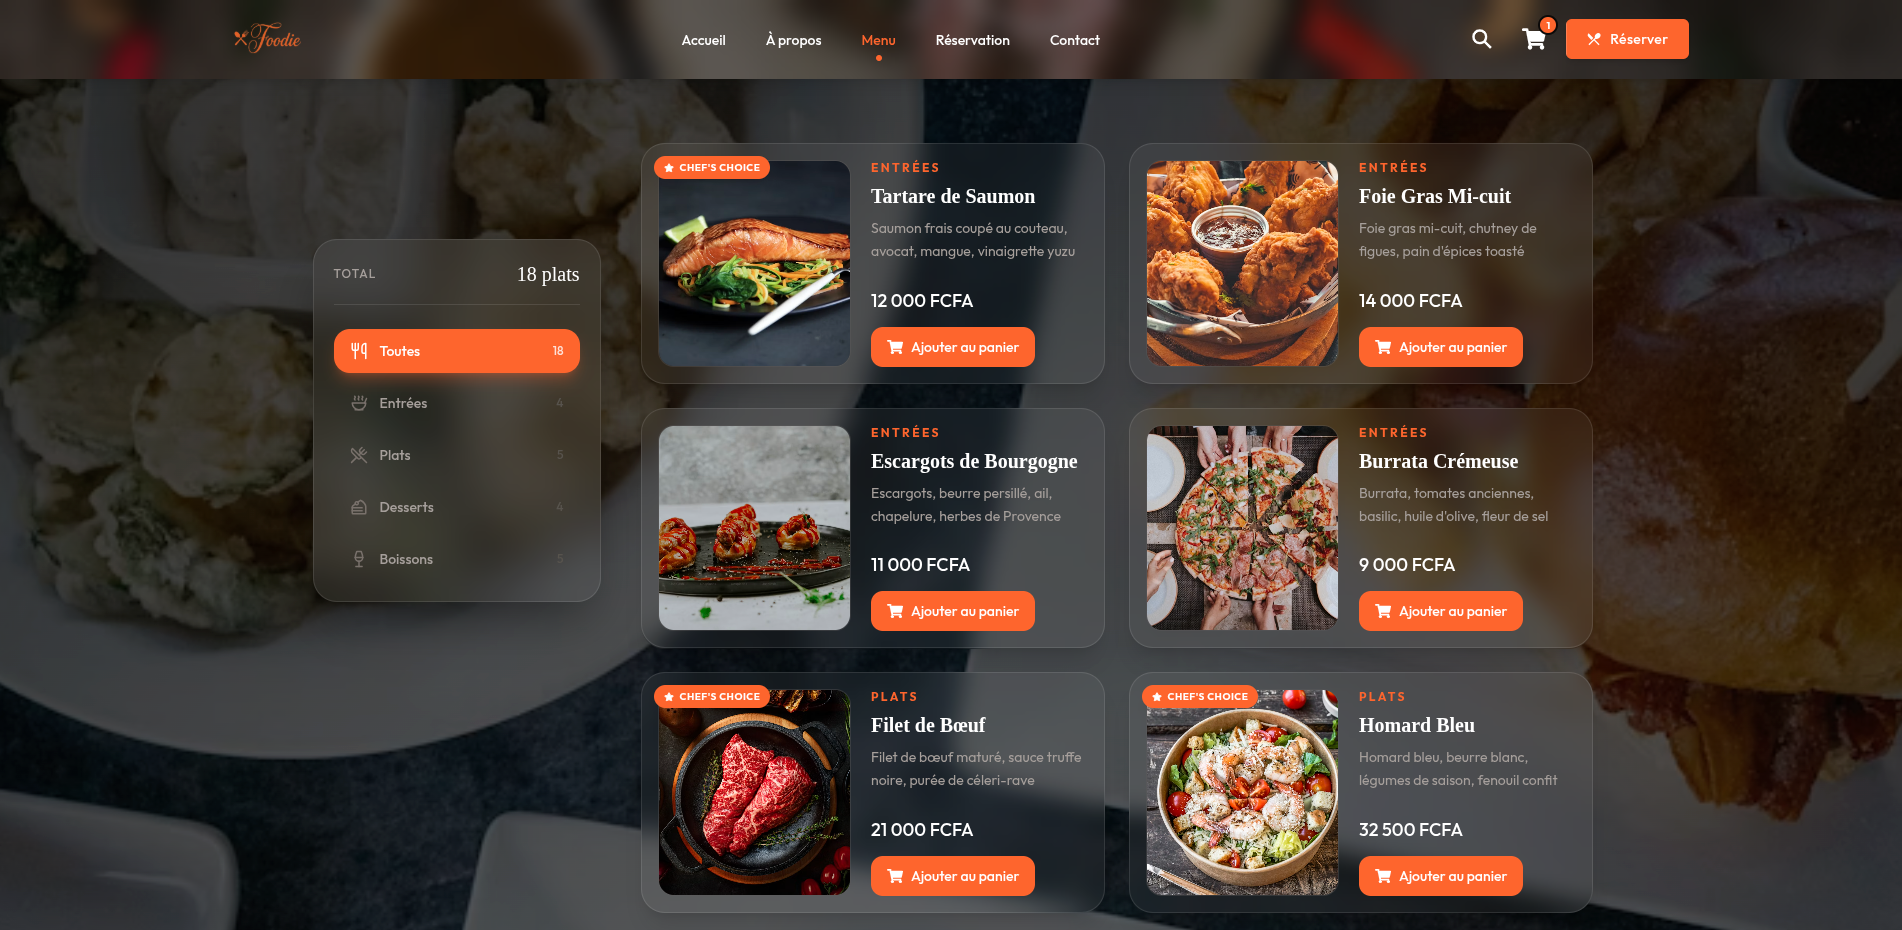
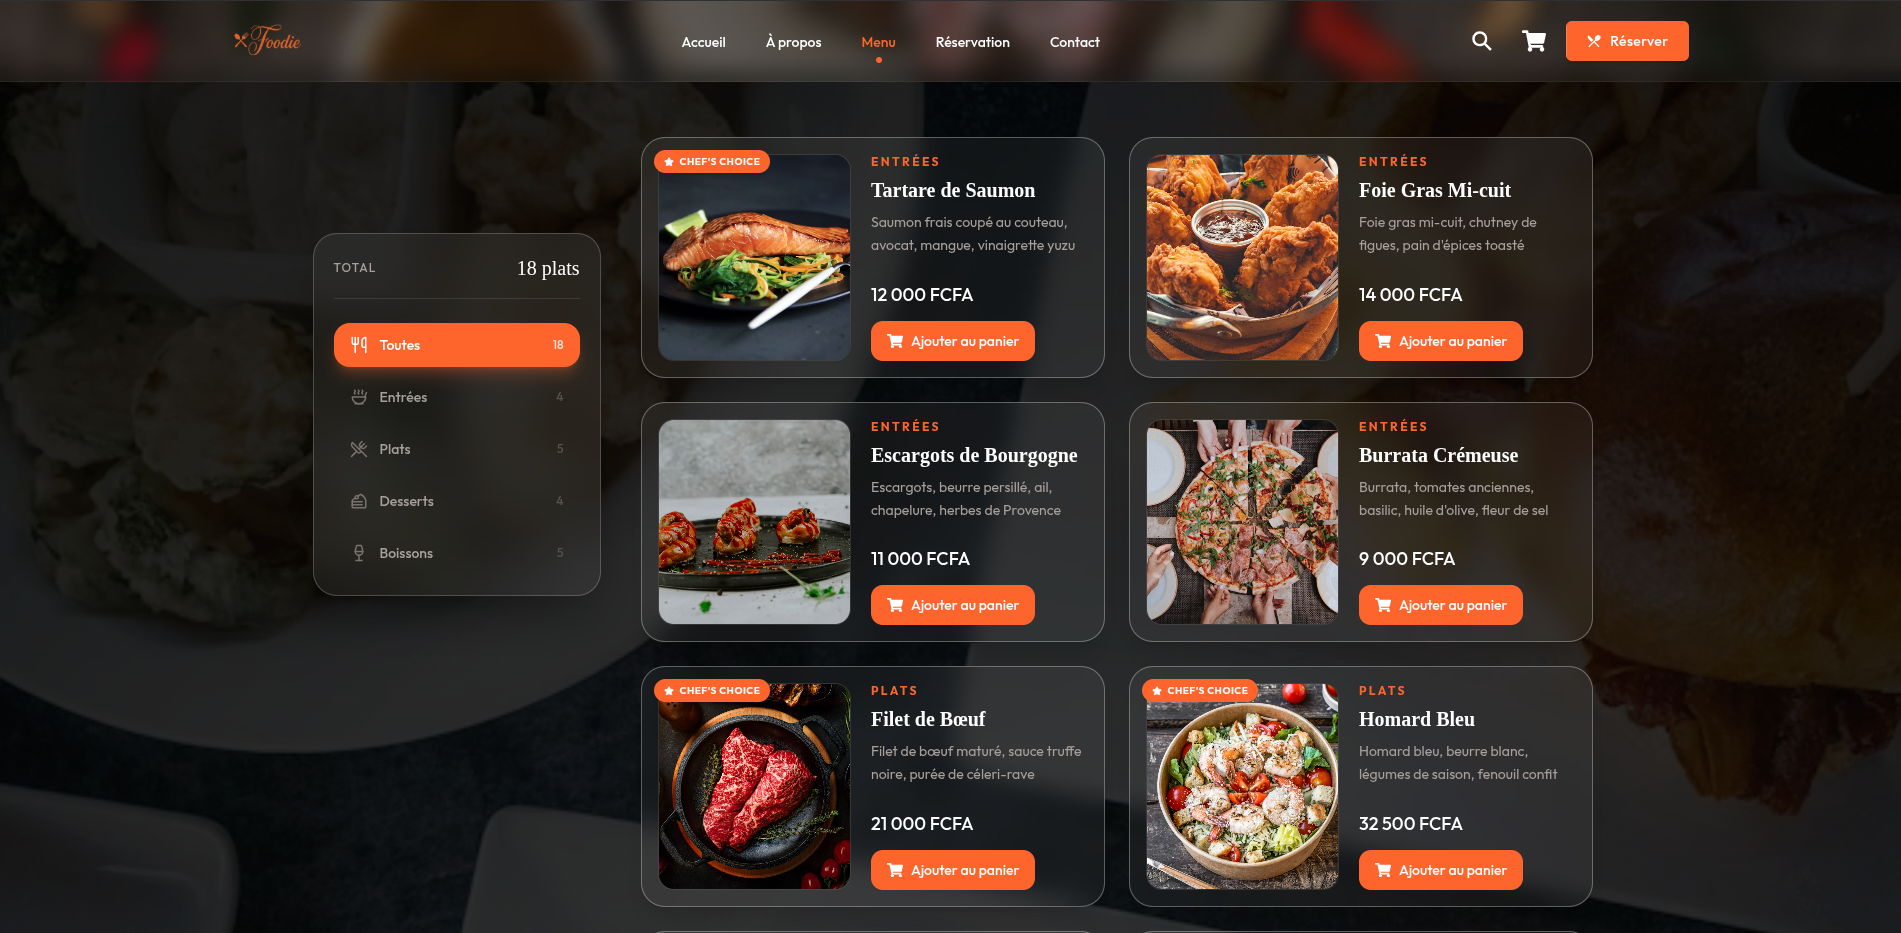
Référencement SEO fait

diff --git a/index.html b/index.html
@@ -15,42 +15,40 @@
 
   <!-- ===== META TAGS SEO ===== -->
   <!-- Titre principal -->
-  <title>L'Art Culinaire | Restaurant Gastronomique Étoilé à Paris</title>
+  <title>Foodie | L'Art Culinaire | Restaurant Gastronomique Étoilé à Paris</title>
 
   <!-- Description -->
   <meta name="description"
-    content="Découvrez L'Art Culinaire, restaurant gastronomique étoilé à Paris. Une expérience culinaire d'exception avec des plats signatures et un cadre élégant." />
+    content="Découvrez Foodie | L'Art Culinaire, restaurant gastronomique étoilé à Paris. Une expérience culinaire d'exception avec des plats signatures et un cadre élégant." />
 
   <!-- Mots-clés -->
   <meta name="keywords"
     content="restaurant gastronomique, étoile Michelin, Paris, cuisine française, gastronomie, dîner, réservation, chef étoilé" />
 
   <!-- Auteur -->
-  <meta name="author" content="L'Art Culinaire" />
+  <meta name="author" content="Foodie | L'Art Culinaire" />
 
   <!-- Robots -->
   <meta name="robots" content="index, follow" />
 
   <!-- Référencement des pages -->
-  <link rel="canonical" href="https://www.lartculinaire.fr/" />
+  <link rel="canonical" href="website-foodie-restaurant.vercel.app" />
 
   <!-- ===== OPEN GRAPH (Facebook, LinkedIn, etc.) ===== -->
-  <meta property="og:title" content="L'Art Culinaire | Restaurant Gastronomique Étoilé à Paris" />
+  <meta property="og:title" content="Foodie | L'Art Culinaire | Restaurant Gastronomique Étoilé à Paris" />
   <meta property="og:description"
     content="Une expérience gastronomique d'exception à Paris. Plats signatures, cadre élégant et service raffiné." />
-  <meta property="og:image"
-    content="https://images.unsplash.com/photo-1414235077428-338989a2e8c0?auto=format&fit=crop&q=80&w=1200" />
-  <meta property="og:url" content="https://www.lartculinaire.fr/" />
+  <meta property="og:image" content="/src/assets/hero2.png" />
+  <meta property="og:url" content="website-foodie-restaurant.vercel.app" />
   <meta property="og:type" content="website" />
   <meta property="og:locale" content="fr_FR" />
 
   <!-- ===== TWITTER CARDS ===== -->
   <meta name="twitter:card" content="summary_large_image" />
-  <meta name="twitter:title" content="L'Art Culinaire | Restaurant Gastronomique Étoilé à Paris" />
+  <meta name="twitter:title" content="Foodie | L'Art Culinaire | Restaurant Gastronomique Étoilé à Paris" />
   <meta name="twitter:description"
     content="Une expérience gastronomique d'exception à Paris. Plats signatures, cadre élégant et service raffiné." />
-  <meta name="twitter:image"
-    content="https://images.unsplash.com/photo-1414235077428-338989a2e8c0?auto=format&fit=crop&q=80&w=1200" />
+  <meta name="twitter:image" content="/src/assets/hero2.png" />
 
   <!-- ===== STRUCTURED DATA (JSON-LD) ===== -->
   <script type="application/ld+json">
@@ -58,7 +56,7 @@
       "@context": "https://schema.org",
       "@type": "Restaurant",
       "name": "L'Art Culinaire",
-      "image": "https://images.unsplash.com/photo-1414235077428-338989a2e8c0?auto=format&fit=crop&q=80&w=1200",
+      "image": "/src/assets/hero2.png",
       "description": "Restaurant gastronomique étoilé à Paris offrant une expérience culinaire d'exception.",
       "address": {
         "@type": "PostalAddress",
@@ -71,7 +69,7 @@
       "priceRange": "€€€€",
       "openingHours": "Tu-Sa 19:00-23:00",
       "servesCuisine": "Française",
-      "menu": "https://www.lartculinaire.fr/menu",
+      "menu": "website-foodie-restaurant.vercel.appmenu",
       "hasMap": "https://www.google.com/maps/place/12+Avenue+de+la+Gastronomie,+75008+Paris",
       "aggregateRating": {
         "@type": "AggregateRating",

diff --git a/src/pages/Home.tsx b/src/pages/Home.tsx
@@ -14,10 +14,6 @@ import { Link } from 'react-router-dom';
 import { MenuMeals } from '../data/MenuMeals';
 
 
-
-
-
-
 // ==========================================
 // HERO - ORBITAL COMPOSITION (DARK MODE PREMIUM)
 // ==========================================
@@ -169,7 +165,7 @@ const OrbitalHero = () => {
 
             {/* ===== PLATS ORBITAUX ===== */}
             {orbitalDishes.map((dish, index) => {
-              const orbitRadius = 350;
+              const orbitRadius = 320;
               const angle = (index / orbitalDishes.length) * 2 * Math.PI + (rotation * Math.PI / 180);
               const x = Math.cos(angle) * orbitRadius;
               const y = Math.sin(angle) * orbitRadius;

diff --git a/src/pages/Menu.tsx b/src/pages/Menu.tsx
@@ -99,7 +99,7 @@ export default function MenuPage({ onAddToCart }: MenuPageProps) {
               className="w-full h-full object-cover scale-105"
             />
             {/* Overlay identique au Hero pour que l'image ressorte bien */}
-            <div className="absolute inset-0 bg-stone-950/60" />
+            <div className="absolute inset-0 bg-stone-950/80" />
             {/* Vignettage subtil pour focaliser l'attention au centre et faire "pop" le glassmorphism */}
             <div className="absolute inset-0 bg-[radial-gradient(circle_at_center,transparent_0%,rgba(0,0,0,0.5)_100%)]" />
           </div>

diff --git a/src/components/StaggeredMenu.tsx b/src/components/StaggeredMenu.tsx
@@ -3,6 +3,7 @@ import { gsap } from 'gsap';
 import { Link } from 'react-router-dom';
 import { FaShoppingCart } from 'react-icons/fa';
 import { IoSearchSharp } from 'react-icons/io5';
+import logoUrl from '../assets/logo.png';
 
 export interface StaggeredMenuItem {
     label: string;
